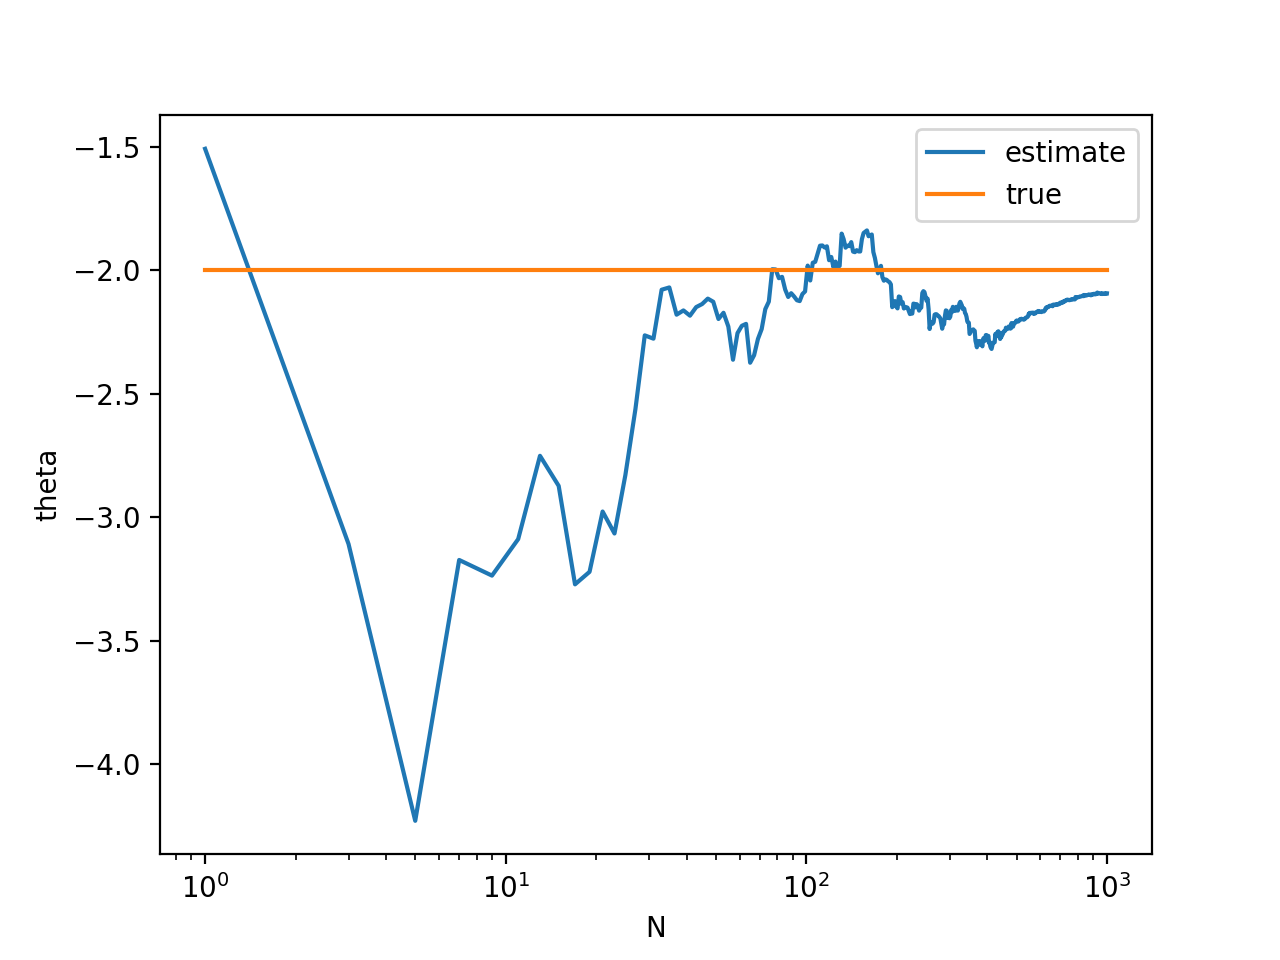
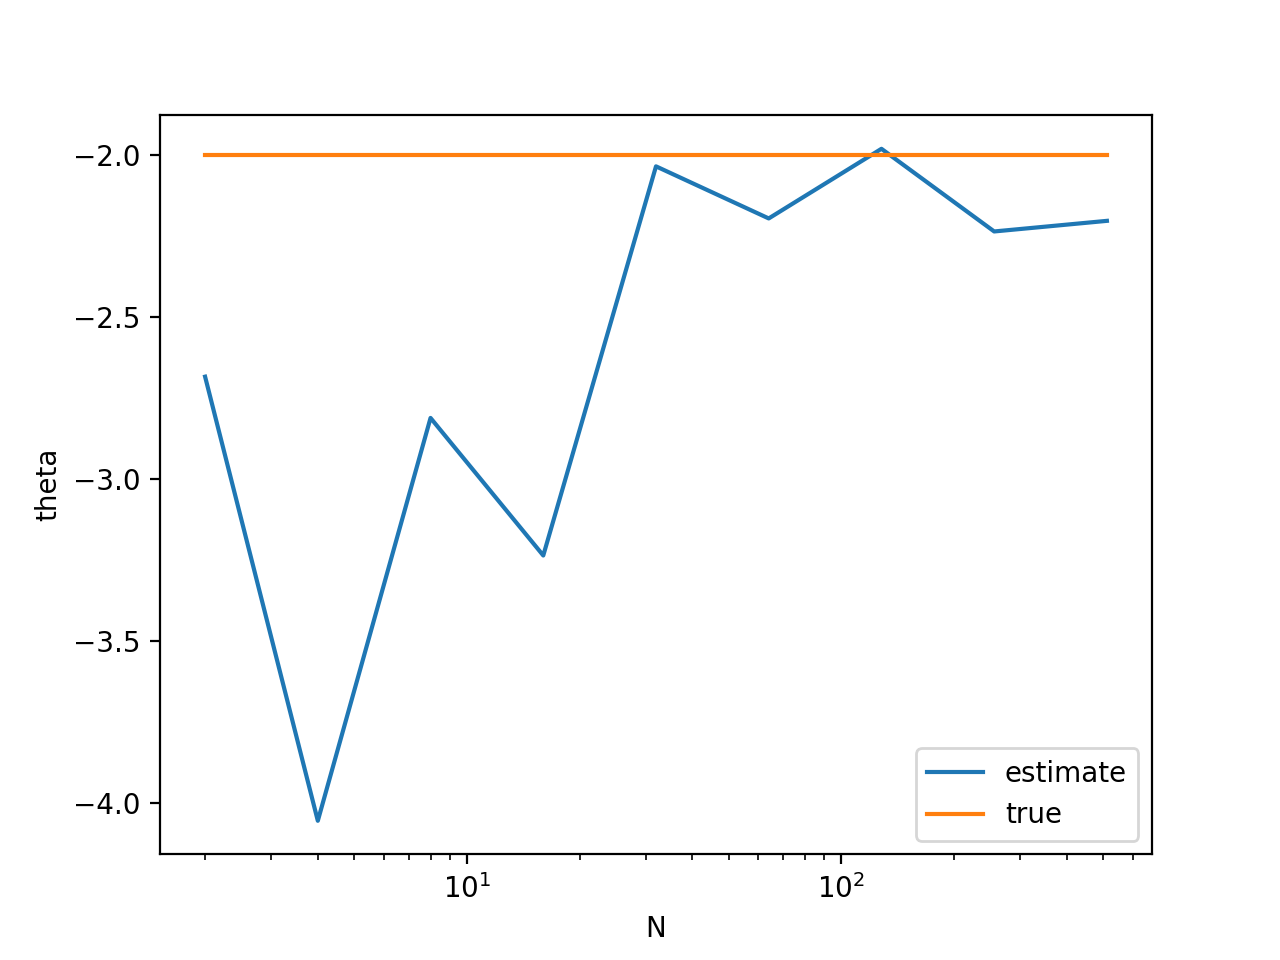
進めた＆修正

diff --git a/12.py b/12.py
@@ -41,7 +41,6 @@ def calc_theta_6_17(x, y, data_num):
         phi_q = np.dot(phi(x)[i].T, Q)
         Phi += np.dot(phi_q, phi(x)[i])
     Phi = la.inv(Phi)
-
     migi = np.array([0.0,0.0])
     for i in range(data_num):
         phi_q = np.dot(phi(x)[i].T, Q)
@@ -50,14 +49,28 @@ def calc_theta_6_17(x, y, data_num):
     theta = np.dot(Phi, migi)
 
     Err_mat = np.array([[0.0,0.0],[0.0,0.0]])
-
+    Phi_dash = np.array([[0.0, 0.0],[0.0, 0.0]])
+    for i in range(data_num):
+        phi_q = np.dot(phi(x)[i].T, Q)
+        phiqphi = np.dot(phi_q, phi(x)[i])
+        Phi_dash += phiqphi
+    Phi_dash = la.inv(Phi_dash)
+    for i in range(data_num):
+        kari = np.dot(phi(x)[i].T, Q)
+        kari = np.dot(kari, V)
+        kari = np.dot(kari, Q.T)
+        kari = np.dot(kari, phi(x)[i])
+        kari = np.dot(kari, Phi_dash.T)
+        Err_mat += kari
+    Err_mat = np.dot(Phi_dash ,Err_mat)
+    '''
     for i in range(data_num):
         phi_v = np.dot(phi(x)[i].T, V)
         phi_v_phi = np.dot(phi_v, phi(x)[i])
         phi_v_phi_Phi = np.dot(phi_v_phi, Phi)
         Err_mat += phi_v_phi_Phi
     Err_mat = np.dot(Phi, Err_mat)
-
+    '''
     return theta, Err_mat
 
 df = pd.read_csv("./suri_jikken6_data/mmse_kadai5.txt",header=None)
@@ -72,7 +85,6 @@ print(ans_6_5[0], ans_6_5[1])
 ans_6_17 = calc_theta_6_17(x, y, N)
 print(ans_6_17[0], ans_6_17[1])
 
-
 theta_0_list = []
 theta_1_list = []
 theta_2_list = []
@@ -83,22 +95,21 @@ real_ans_1_list = []
 real_ans_2_list = []
 real_ans_3_list = []
 
-for k in range(1,N):
-    N_list.append(k)
+for k in range(1,10):
+    data_num = 2 ** k
+    N_list.append(data_num)
     real_ans_0_list.append(3.0)
     real_ans_1_list.append(-2.0)
     real_ans_2_list.append(3.0)
     real_ans_3_list.append(-2.0)
 
-    x = np.array(data[0:k,0])
-    y = np.array(data[0:k,1:3])
+    x = np.array(data[0:2 ** k,0])
+    y = np.array(data[0:2 ** k,1:3])
     #print(x.shape)
-    if k==4:
-        print(x)
-    theta_0 = calc_theta_6_5(x, y, k)[0][0]
-    theta_1 = calc_theta_6_5(x, y, k)[0][1]
-    theta_2 = calc_theta_6_17(x, y, k)[0][0]
-    theta_3 = calc_theta_6_17(x, y, k)[0][1]
+    theta_0 = calc_theta_6_5(x, y, data_num)[0][0]
+    theta_1 = calc_theta_6_5(x, y, data_num)[0][1]
+    theta_2 = calc_theta_6_17(x, y, data_num)[0][0]
+    theta_3 = calc_theta_6_17(x, y, data_num)[0][1]
 
     theta_0_list.append(theta_0)
     theta_1_list.append(theta_1)
@@ -150,4 +161,15 @@ plt.show()
 [-0.01251624  0.01086049]]
 [ 2.93908407 -1.98646467] [[ 0.23999299 -0.09665406]
 [-0.09665406  0.0499126 ]]
+
+(6.5)による推定誤差共分散行列は
+[[ 0.03514546 -0.01251624]
+[-0.01251624  0.01086049]]
+
+(6.17)による推定誤差共分散行列は
+[[ 0.00147742 -0.00050005]
+[-0.00050005  0.00051312]]
+結局2
+Phy'=(Σφi^TQφi)^-1
+Phy' Σφ^T Q V Q^T φ Phy'^T
 '''

diff --git a/15.py b/15.py
@@ -1,0 +1,69 @@
+import pandas as pd
+import numpy as np
+import numpy.linalg as la
+import matplotlib.pyplot as plt
+
+def phi(x):
+    kitei = np.array([x**0, np.exp(-(x-1.0)**2/2.0), np.exp(-(x+1.0)**2)])
+    return np.transpose(kitei)
+
+def calc_theta(x, y):
+    Phi = la.inv(np.dot(np.transpose(phi(x)),phi(x)))
+    ans_kari = np.dot(Phi, np.transpose(phi(x)))
+    ans = np.dot(ans_kari, y)
+    return ans
+
+df = pd.read_csv("./suri_jikken6_data/mmse_kadai8.txt",header=None)
+data = np.array(df)
+
+N = 6000
+M = 4000
+n = 3
+#始めの6000組
+x = np.array(data[0:N,0])
+y = np.array(data[0:N,1])
+Phi_N = la.inv(np.dot(np.transpose(phi(x)),phi(x)))
+#print(Phi_N.shape)
+
+N_ans = calc_theta(x, y)
+print("前半の推定値:",N_ans)
+V_n_hat_kari = y - np.dot(phi(x), N_ans)
+V_n_hat_kari = np.dot(V_n_hat_kari, np.transpose(V_n_hat_kari))
+V_n_hat_N = V_n_hat_kari / (N - n)
+print("前半の推定誤差:",V_n_hat_N)
+
+kari = np.dot(phi(x).T, V_n_hat_N)
+Phi_Q_N = la.inv(np.dot(kari, phi(x)))
+
+
+#後の4000組
+x = np.array(data[N:,0])
+y = np.array(data[N:,1])
+Phi_M = la.inv(np.dot(np.transpose(phi(x)),phi(x)))
+
+M_ans = calc_theta(x, y)
+print("後半の推定値:",M_ans)
+V_n_hat_kari = y - np.dot(phi(x), M_ans)
+V_n_hat_kari = np.dot(V_n_hat_kari, np.transpose(V_n_hat_kari))
+V_n_hat_M = V_n_hat_kari / (M - n)
+print("後半の推定誤差:",V_n_hat_M)
+
+kari = np.dot(phi(x).T, V_n_hat_M)
+Phi_Q_M = la.inv(np.dot(kari, phi(x)))
+
+#合成
+gousei_ans = np.dot(la.inv(la.inv(Phi_Q_N) + la.inv(Phi_Q_M)), np.dot(la.inv(Phi_Q_N), N_ans)+np.dot(la.inv(Phi_Q_M), M_ans))
+print("合成の推定値:",gousei_ans)
+x = np.array(data[:,0])
+y = np.array(data[:,1])
+ans = calc_theta(x, y)
+print("全データの推定値:",ans)
+
+'''
+前半の推定値: [ 0.00707684  3.28054335 -2.1908997 ]
+前半の推定誤差: 96.86329354733162
+後半の推定値: [ 0.09848311  3.10040485 -2.09100212]
+後半の推定誤差: 0.010304240740875456
+合成の推定値: [ 0.00708335  3.28053063 -2.19089269]
+全データの推定値: [ 0.04373209  3.20866562 -2.15117856]
+'''

diff --git a/16_1.py b/16_1.py
@@ -10,9 +10,10 @@ def phi(x):
 def saisyou_nijou(theta_pre, Phi_pre, x, y):
     phix = np.reshape(phi(x),(m, 1))
     hidari = np.dot(Phi_pre, phix.T)
+    theta_pre = np.reshape(theta_pre, (m,1))
     #hidari = np.reshape(hidari, (m, 1))
     #print(hidari)
-    migi = np.dot(phi(x), Phi_pre)
+    migi = np.dot(phix, Phi_pre)
     migi = np.reshape(migi,(m, 1))
     #print(phix.T)
     #print(np.dot(migi, phix.T))
@@ -20,16 +21,16 @@ def saisyou_nijou(theta_pre, Phi_pre, x, y):
     #print(migi)
     K = np.dot(hidari, migi)
     #print("Kは",K)
-    theta = theta_pre + np.dot(K, y - np.dot(phi(x), theta_pre)) #+ theta_pre**2
-    #print(theta.shape)
+    #print(theta_pre.shape)
+    theta = theta_pre + np.dot(K, y - np.dot(phix, theta_pre)) #多分ここが変
     phi_migi = np.dot(K, phi(x))
     phi_migi = np.dot(phi_migi, Phi_pre)
     #print(phi_migi)
     Phi = Phi_pre - phi_migi[0]
     #print(theta)
-    print(theta.T)
+    #print(theta.T)
     theta_kari = np.reshape(theta.T, (m,))
-    print(theta_kari)
+    #print(theta_kari)
     return theta_kari, Phi
 
 #print(saisyou_nijou(np.array([2.0,2.0,3.0]), 2.0, np.array([1.0,2.0,3.0]),np.array([1.0,2.0,3.0])))
@@ -43,19 +44,19 @@ def y_k_real(y_pre, y_pre_pre, k):
     y_new = (2.0 - (D/M)*dt)*y_pre + (1.0 + D/M*dt - (K/M)*(dt**2)) * y_pre_pre + ((dt**2)/M) * F(k-2) + w
     return y_new
 
-epsilon = 1.0
+epsilon = 10 **(-6)
 y_pre = 0.0
 y_pre_pre = 0.0
 theta = np.array([0.0,0.0,0.0])
 #theta = np.reshape(theta, (m,1))
 Phi = 1.0/epsilon
 
-for k in range(10):
+for k in range(10000):
     y = y_k_real(y_pre, y_pre_pre, k)
     x = np.array([y_pre, y_pre_pre, F(k-2)])
     theta, Phi = saisyou_nijou(theta, Phi, x, y)
     y_pre_pre = y_pre
     y_pre = y
-    #print(theta.shape)
+    #print(theta)
 
 print(theta)

diff --git a/14.py b/14.py
@@ -1,0 +1,56 @@
+import pandas as pd
+import numpy as np
+import numpy.linalg as la
+import matplotlib.pyplot as plt
+
+def phi(x):
+    kitei = np.array([x**0, np.exp(-(x-1.0)**2/2.0), np.exp(-(x+1.0)**2)])
+    return np.transpose(kitei)
+
+def calc_theta(x, y):
+    Phi = la.inv(np.dot(np.transpose(phi(x)),phi(x)))
+    ans_kari = np.dot(Phi, np.transpose(phi(x)))
+    ans = np.dot(ans_kari, y)
+    return ans
+
+df = pd.read_csv("./suri_jikken6_data/mmse_kadai7.txt",header=None)
+data = np.array(df)
+
+N = 6000
+M = 4000
+#始めの6000組
+x = np.array(data[0:N,0])
+y = np.array(data[0:N,1])
+Phi_N = la.inv(np.dot(np.transpose(phi(x)),phi(x)))
+#print(Phi_N.shape)
+
+N_ans = calc_theta(x, y)
+print(N_ans)
+
+#後の4000組
+x = np.array(data[N:,0])
+y = np.array(data[N:,1])
+Phi_M = la.inv(np.dot(np.transpose(phi(x)),phi(x)))
+
+M_ans = calc_theta(x, y)
+print(M_ans)
+
+#合成
+invN = la.inv(Phi_N)
+invM = la.inv(Phi_M)
+gousei_hidari = la.inv(invM + invN)
+gousei_migi = np.dot(invN, N_ans) + np.dot(invM, M_ans)
+gousei_ans = np.dot(gousei_migi, gousei_hidari)
+print(gousei_ans)
+
+x = np.array(data[:,0])
+y = np.array(data[:,1])
+ans = calc_theta(x, y)
+print(ans)
+
+'''
+[-0.00387938  3.0107149  -1.98943435]
+[-0.02537589  3.03489937 -1.97772731]
+[-0.0124955   3.02042997 -1.98486916]
+[-0.0124955   3.02042997 -1.98486916]
+'''

diff --git a/13.py b/13.py
@@ -97,21 +97,22 @@ real_ans_1_list = []
 real_ans_2_list = []
 real_ans_3_list = []
 
-for k in range(1,N,2):
-    N_list.append(k)
+for k in range(1,10):
+    data_num = 2 ** k
+    N_list.append(data_num)
     real_ans_0_list.append(3.0)
     real_ans_1_list.append(-2.0)
     real_ans_2_list.append(3.0)
     real_ans_3_list.append(-2.0)
 
-    x = np.array(data[0:k,0])
-    y = np.array(data[0:k,1:3])
+    x = np.array(data[0:data_num,0])
+    y = np.array(data[0:data_num,1:3])
     #print(x.shape)
     
-    theta_0 = calc_theta_6_5(x, y, k)[0][0]
-    theta_1 = calc_theta_6_5(x, y, k)[0][1]
-    theta_2 = calc_theta_6_17(x, y, k)[0][0]
-    theta_3 = calc_theta_6_17(x, y, k)[0][1]
+    theta_0 = calc_theta_6_5(x, y, data_num)[0][0]
+    theta_1 = calc_theta_6_5(x, y, data_num)[0][1]
+    theta_2 = calc_theta_6_17(x, y, data_num)[0][0]
+    theta_3 = calc_theta_6_17(x, y, data_num)[0][1]
 
     theta_0_list.append(theta_0)
     theta_1_list.append(theta_1)

diff --git a/21.py b/21.py
@@ -1,0 +1,11 @@
+import pandas as pd
+import numpy as np
+import numpy.linalg as la
+import matplotlib.pyplot as plt
+
+df = pd.read_csv("./suri_jikken6_data/mmse_kadai14.txt",header=None)
+data = np.array(df)
+
+x = np.array(data[:,0])
+y = np.array(data[:,1])
+
